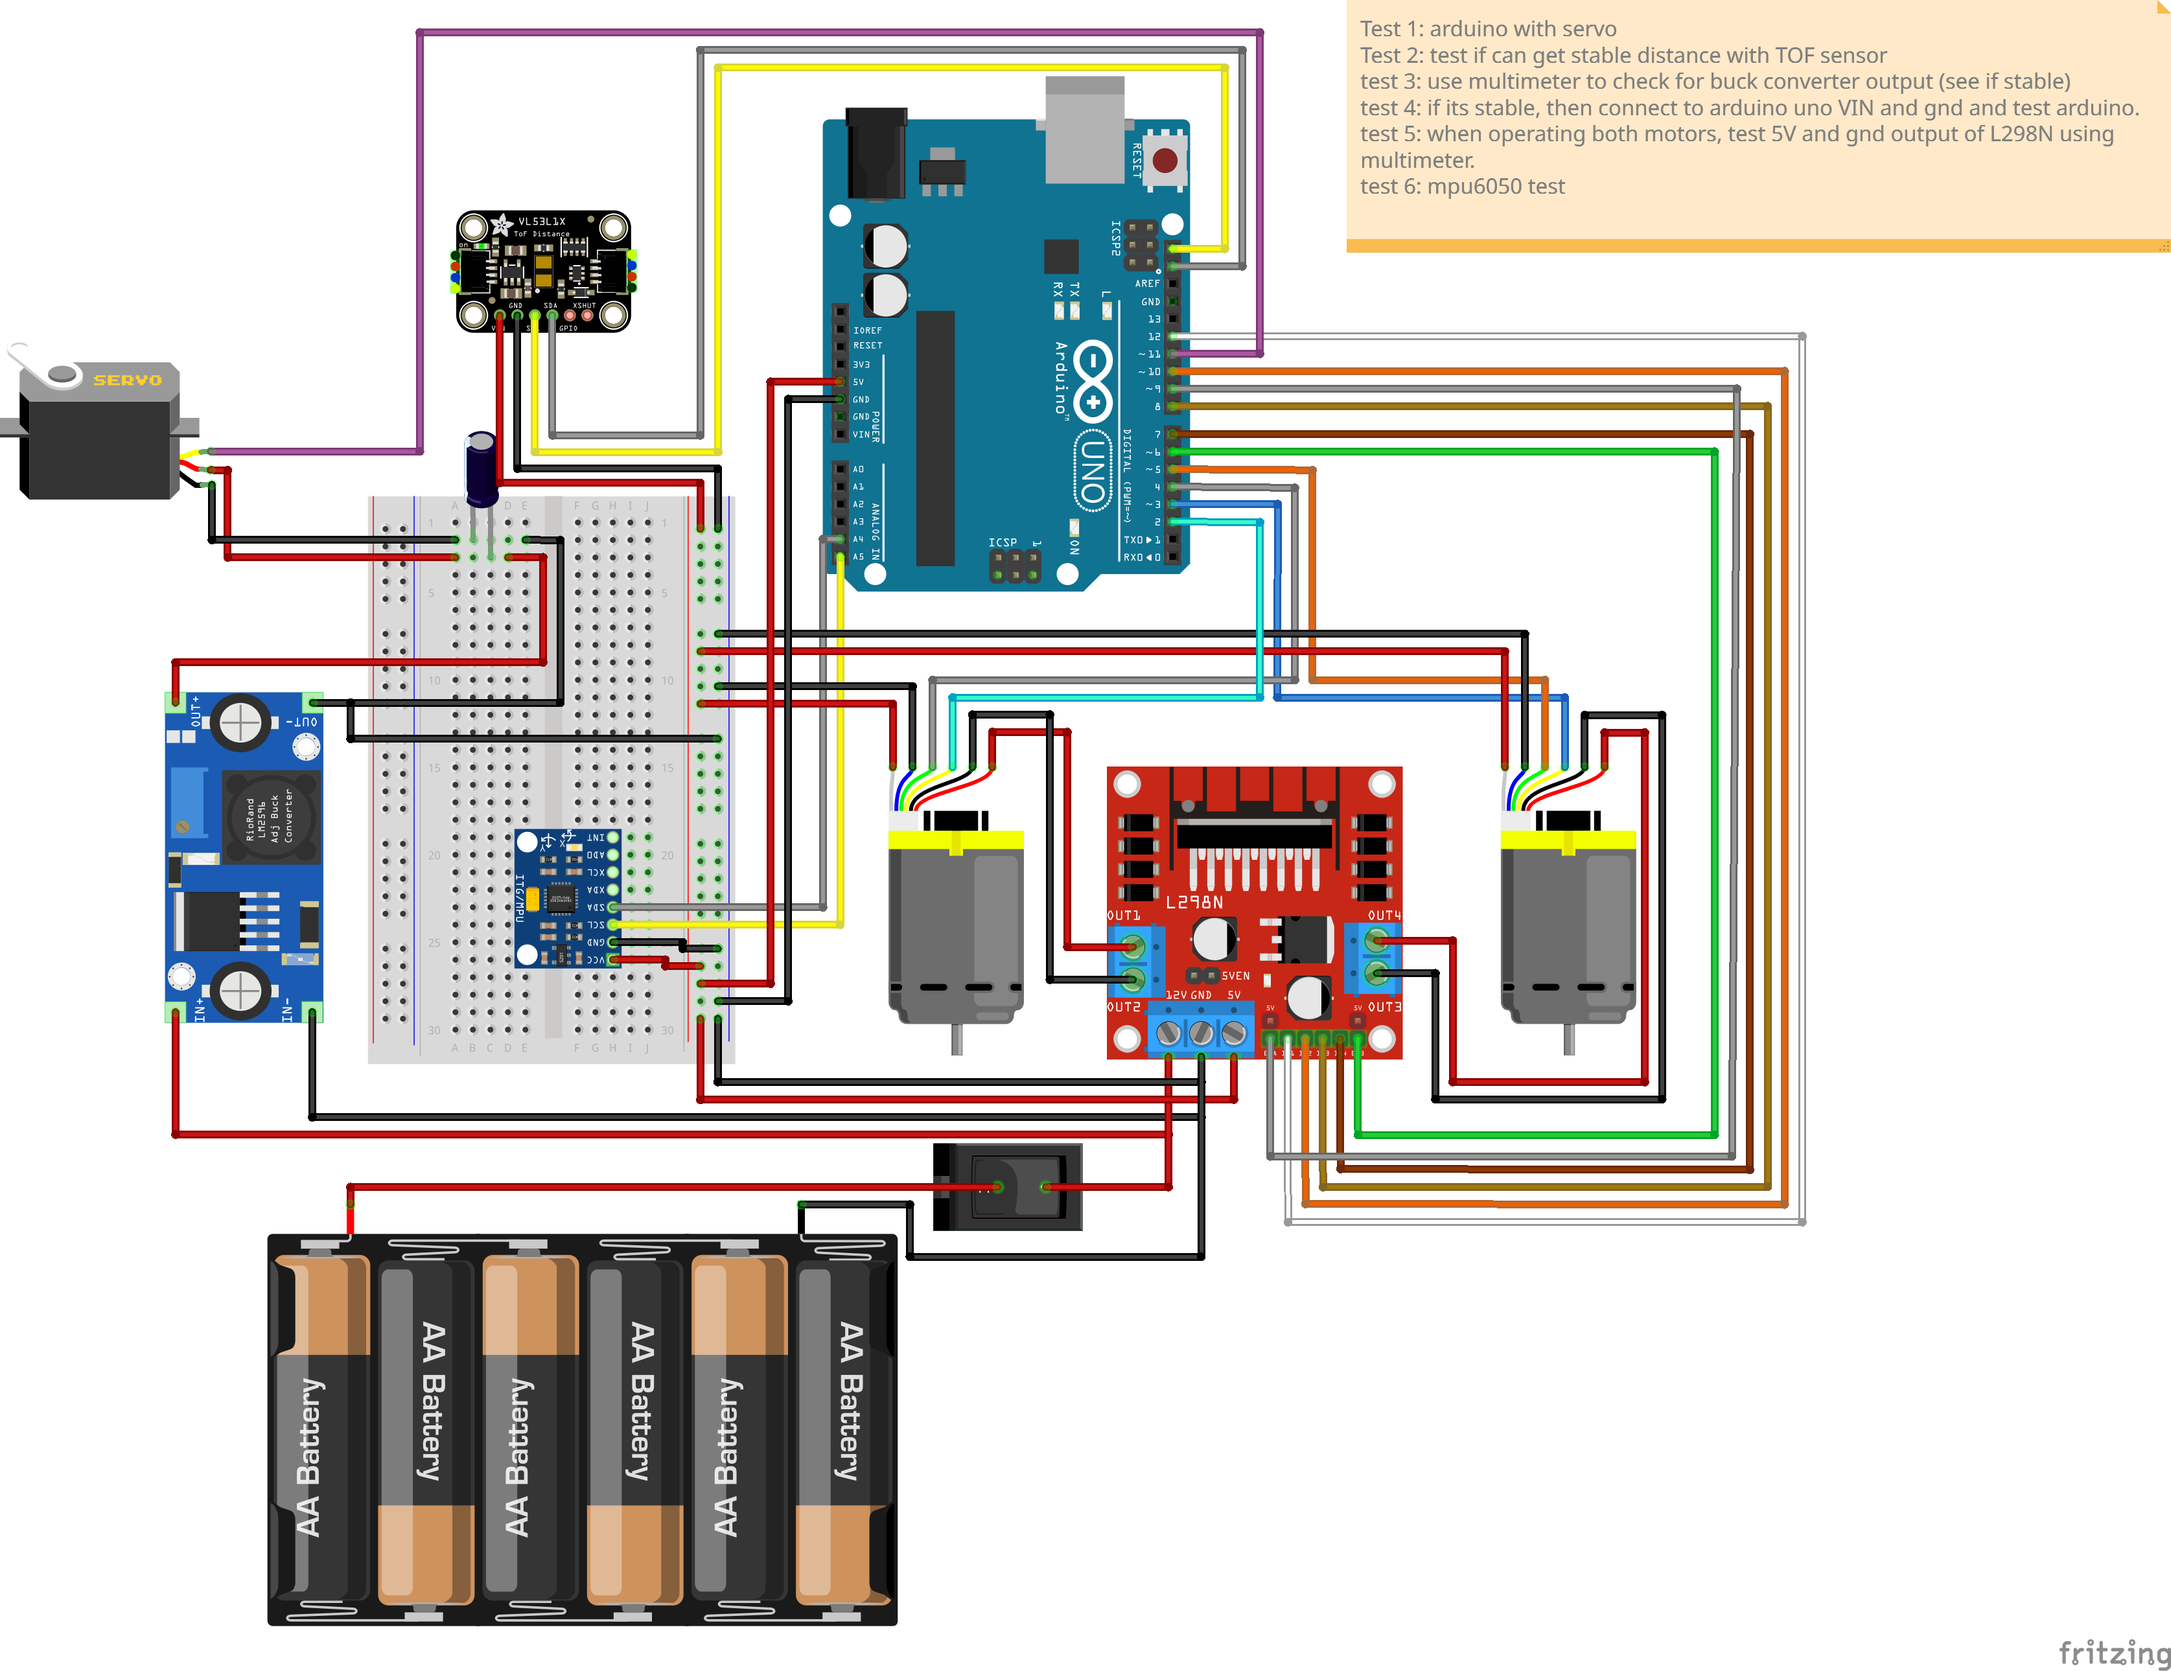
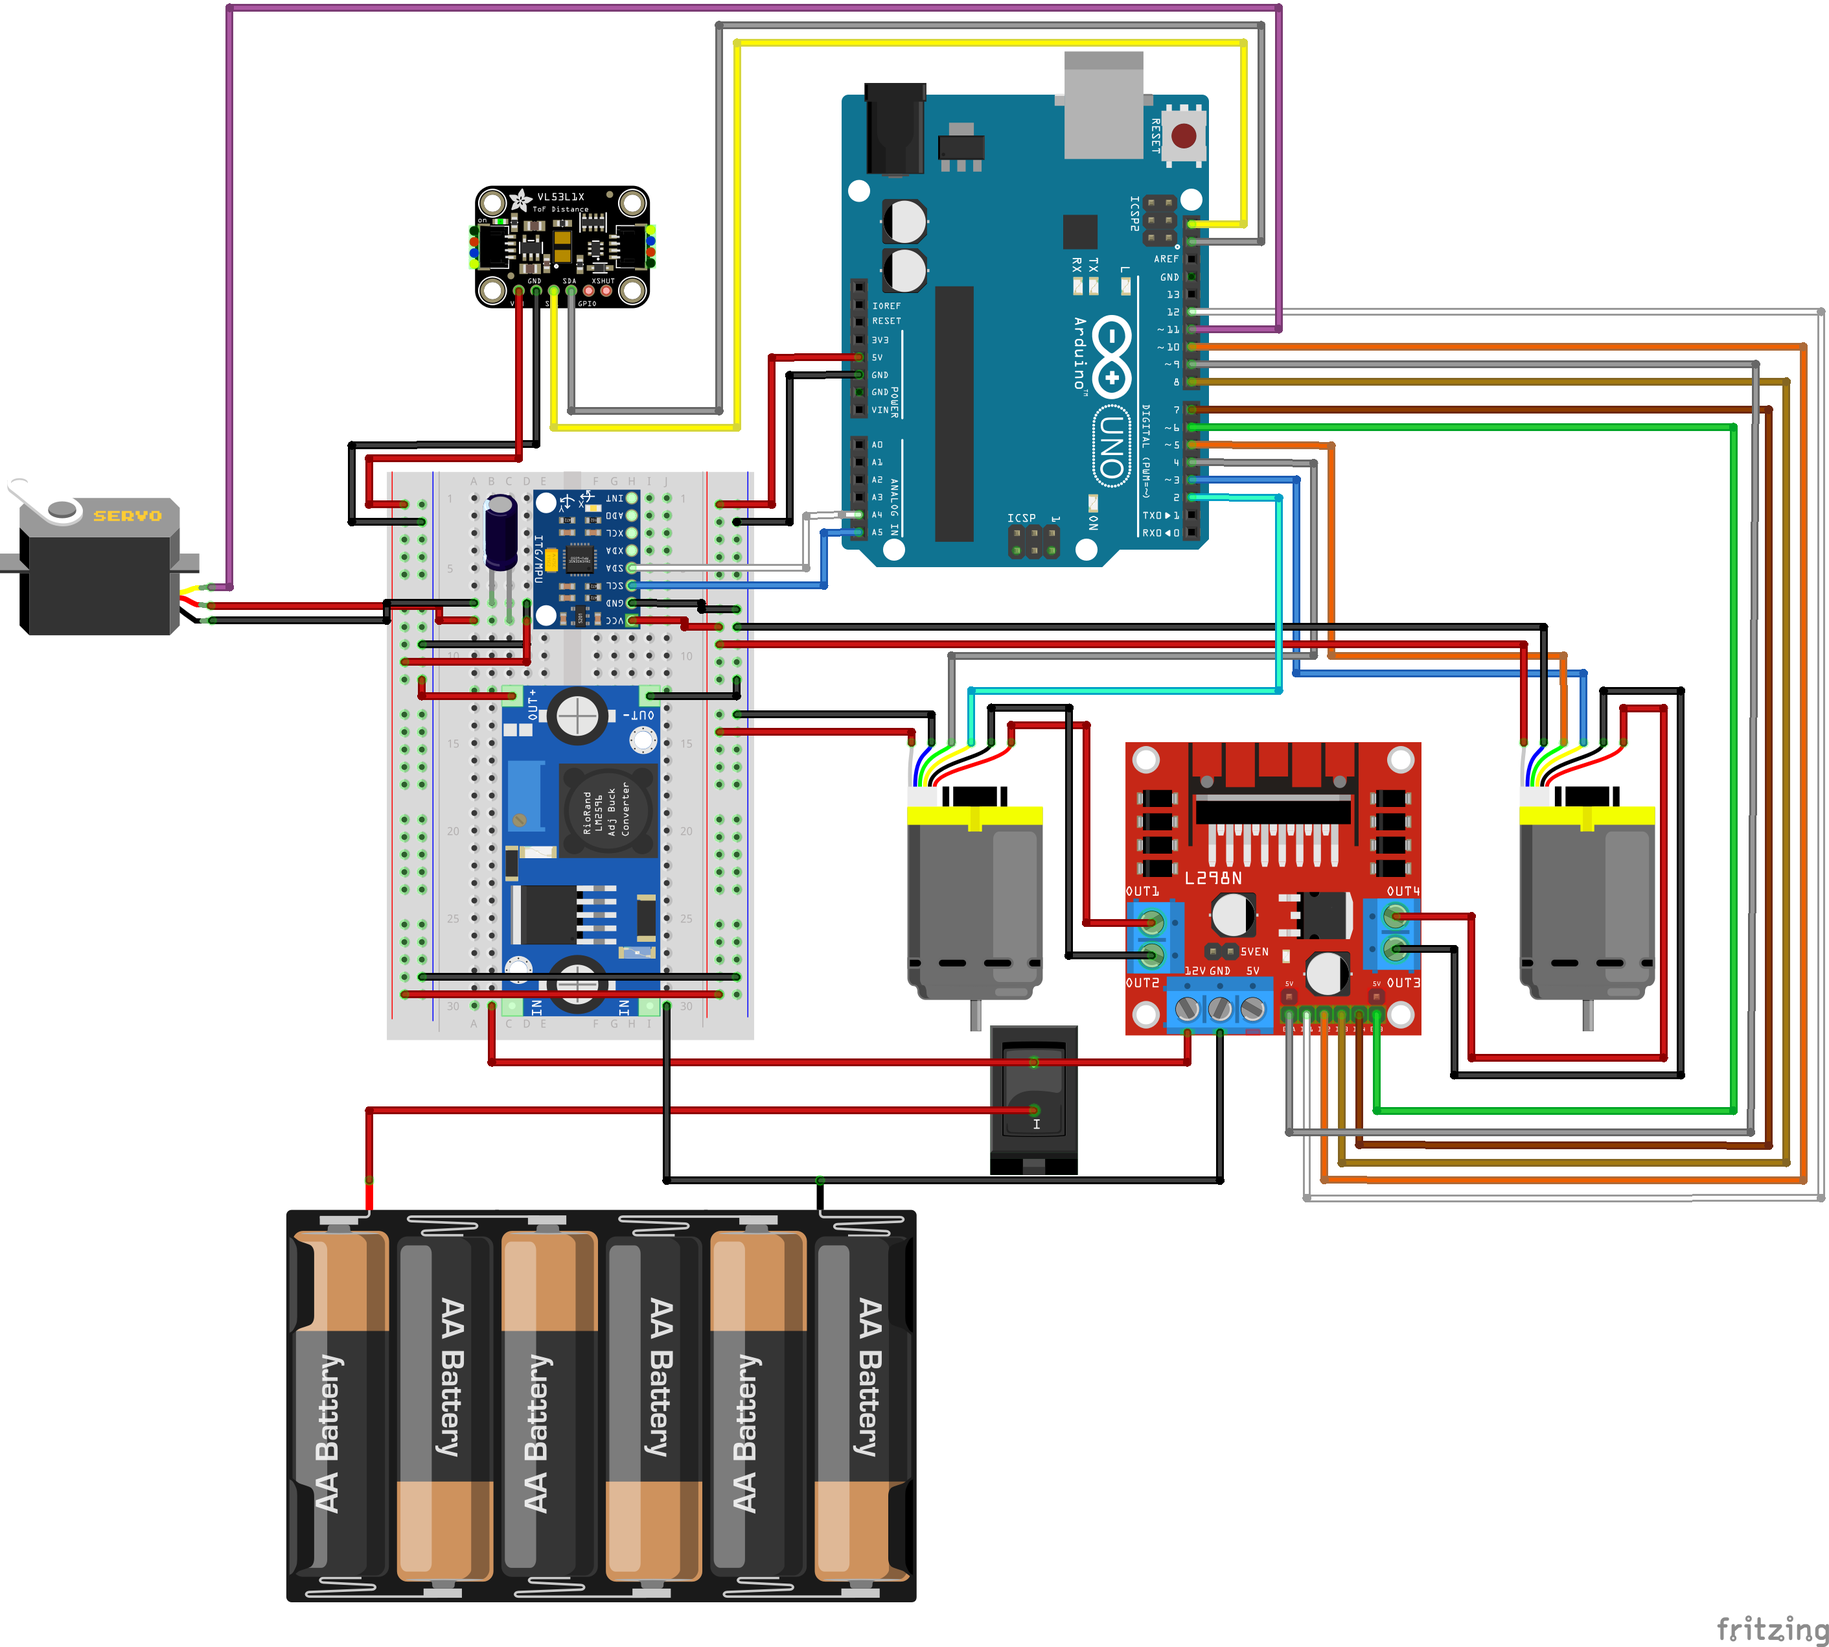
update documentation
- update README.md
- update breadboard_diagram from fritzing

diff --git a/README.md b/README.md
@@ -1,5 +1,33 @@
-This is a small aruino project that creates a small map of its surroundings, using an arduino uno wifi and other parts.
+# RoomMapper
 
+A small Arduino robot that maps the room around it. A VL53L1X distance sensor on a servo sweeps side to side to measure how far away things are while the robot drives around.
 
-Here is the current breadboard wiring diagram:
-![Wiring Diagram](./docs/breadboard_diagram.png)
+Still a work in progress.
+
+## Hardware
+
+- Arduino Uno WiFi
+- Adafruit VL53L1X time-of-flight sensor
+- Servo
+- MPU-6050
+- L298N motor driver + 2 DC motors with encoders
+- LM2596 buck converter
+- 6× AA battery pack
+
+![Wiring diagram](./docs/breadboard_diagram.png)
+
+## Usage
+
+Built with [PlatformIO](https://platformio.org/).
+
+```sh
+pio run -t upload       # build and upload
+pio device monitor      # serial monitor (115200 baud)
+```
+
+Tests run on the board, so the hardware needs to be connected:
+
+```sh
+pio test -f test_servo
+pio test -f test_vl53l1x
+```
